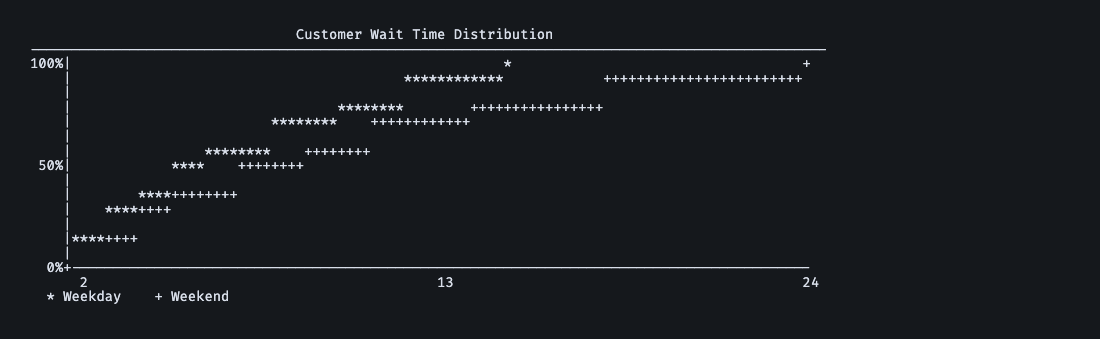
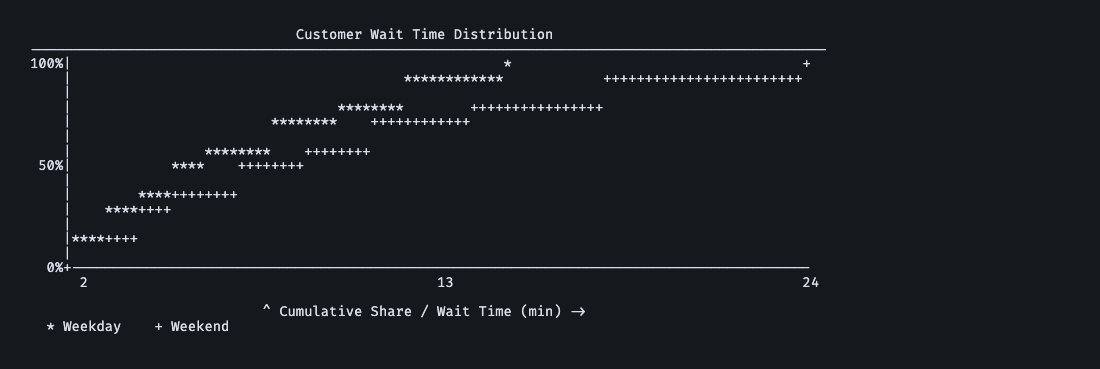
fix: tighten chart gallery labeling and markers

diff --git a/src/textcharts/scatter_plot.py b/src/textcharts/scatter_plot.py
@@ -8,14 +8,7 @@ from typing import TYPE_CHECKING
 
 logger = logging.getLogger(__name__)
 
-from textcharts.base import (
-    DEFAULT_PALETTE,
-    TRUNCATION_MARKER,
-    ASCIIChartBase,
-    ASCIIChartOptions,
-    ColorMode,
-    robust_p95,
-)
+from textcharts.base import DEFAULT_PALETTE, TRUNCATION_MARKER, ASCIIChartBase, ASCIIChartOptions, ColorMode, robust_p95
 
 if TYPE_CHECKING:
     from collections.abc import Sequence
@@ -54,9 +47,8 @@ class ASCIIScatterPlot(ASCIIChartBase):
     ```
     """
 
-    # Markers for different purposes
-    MARKER_NORMAL = "*"
-    MARKER_PARETO = "◆"
+    # Point markers follow the same rotating pattern used by CDF/Line charts.
+    MARKERS = ("*", "+", "o", "x", "^", "v", "#", "@")
     MARKER_FRONTIER = "─"
 
     def __init__(
@@ -159,6 +151,9 @@ class ASCIIScatterPlot(ASCIIChartBase):
             return max(0, min(plot_width - 1, gx)), max(0, min(plot_height - 1, gy))
 
         palette = list(DEFAULT_PALETTE)
+        point_styles = {
+            point.name: (self.MARKERS[i % len(self.MARKERS)], palette[i % len(palette)]) for i, point in enumerate(self.points)
+        }
 
         # Plot Pareto frontier line first (so points overlay it)
         if self.show_pareto and len(pareto_points) >= 2:
@@ -190,7 +185,7 @@ class ASCIIScatterPlot(ASCIIChartBase):
 
         for (gx, gy), pts in point_positions.items():
             # Use first point's properties for marker
-            marker = self.MARKER_PARETO if pts[0].is_pareto else self.MARKER_NORMAL
+            marker, _ = point_styles[pts[0].name]
             grid[gy][gx] = marker
 
         # Build output with y-axis
@@ -211,8 +206,10 @@ class ASCIIScatterPlot(ASCIIChartBase):
             if colors.color_mode != ColorMode.NONE:
                 colored_cells = []
                 for cell in row:
-                    if cell == self.MARKER_PARETO:
-                        colored_cells.append(colors.colorize(cell, fg_color="#1b9e77"))
+                    marker_match = next((style for style in point_styles.values() if style[0] == cell), None)
+                    if marker_match is not None:
+                        _, color = marker_match
+                        colored_cells.append(colors.colorize(cell, fg_color=color))
                     elif cell == self.MARKER_FRONTIER:
                         colored_cells.append(colors.colorize(cell, fg_color="#666666"))
                     else:
@@ -249,14 +246,13 @@ class ASCIIScatterPlot(ASCIIChartBase):
 
         # Axis labels
         lines.append("")
-        lines.append(self._render_compact_axis_labels(width))
+        lines.append(self._render_compact_axis_labels(self.y_label, self.x_label, width))
 
         # Legend with point names
         lines.append("")
         lines.append("Points:")
-        for i, point in enumerate(self.points):
-            marker = self.MARKER_PARETO if point.is_pareto else self.MARKER_NORMAL
-            color = "#1b9e77" if point.is_pareto else palette[i % len(palette)]
+        for point in self.points:
+            marker, color = point_styles[point.name]
             if colors.color_mode != ColorMode.NONE:
                 marker_colored = colors.colorize(marker, fg_color=color)
             else:
@@ -269,15 +265,6 @@ class ASCIIScatterPlot(ASCIIChartBase):
             lines.append(f"  {marker_colored} {point.name}: x={x_val}, y={y_val}{pareto_note}{truncated_note}")
 
         return "\n".join(lines)
-
-    def _render_compact_axis_labels(self, width: int) -> str:
-        """Render both axis labels on one compact line."""
-        colors = self.options.get_colors()
-        right_arrow = "\u2192" if self.options.use_unicode else "->"
-        up_arrow = "\u2191" if self.options.use_unicode else "^"
-        text = f"{up_arrow} {self.y_label} / {self.x_label} {right_arrow}"
-        text = text[:width] if len(text) > width else text
-        return colors.colorize(text.center(width), fg_color="#666666")
 
     def _compute_pareto(self) -> list[ScatterPoint]:
         """Compute Pareto frontier (higher y is better, lower x is better)."""

diff --git a/tests/test_gallery_renderer_clarity.py b/tests/test_gallery_renderer_clarity.py
@@ -5,12 +5,14 @@ import pytest
 import textcharts.base as base
 from textcharts import (
     ASCIIBarChart,
+    ASCIICDFChart,
     ASCIIChartOptions,
     ASCIIHeatmap,
     ASCIILineChart,
     ASCIIScatterPlot,
     ASCIISparklineTable,
     BarData,
+    CDFSeriesData,
     LinePoint,
     ScatterPoint,
     SparklineColumn,
@@ -44,7 +46,7 @@ def test_heatmap_uses_configured_x_axis_label():
     assert "Platform →" not in result
 
 
-def test_line_chart_renders_both_axis_labels():
+def test_line_chart_compacts_axis_labels_onto_one_line():
     chart = ASCIILineChart(
         points=[LinePoint(series="Organic", x=1, y=320.0), LinePoint(series="Organic", x=2, y=355.0)],
         x_label="Week",
@@ -54,8 +56,9 @@ def test_line_chart_renders_both_axis_labels():
 
     result = chart.render()
 
-    assert "↑ Signups" in result
-    assert "Week →" in result
+    assert "↑ Signups / Week →" in result
+    assert result.count("↑ Signups") == 1
+    assert result.count("Week →") == 1
 
 
 def test_scatter_plot_compacts_axis_labels_onto_one_line():
@@ -71,6 +74,41 @@ def test_scatter_plot_compacts_axis_labels_onto_one_line():
     assert "↑ Performance / Cost (USD) →" in result
     assert result.count("↑ Performance") == 1
     assert result.count("Cost (USD) →") == 1
+
+
+def test_cdf_chart_compacts_axis_labels_onto_one_line():
+    chart = ASCIICDFChart(
+        data=[
+            CDFSeriesData(name="Weekday", values=[2, 3, 4, 5]),
+            CDFSeriesData(name="Weekend", values=[3, 5, 7, 9]),
+        ],
+        x_label="Wait Time (min)",
+        y_label="Cumulative Share",
+        options=ASCIIChartOptions(width=96, use_color=False),
+    )
+
+    result = chart.render()
+
+    assert "↑ Cumulative Share / Wait Time (min) →" in result
+
+
+def test_scatter_plot_uses_distinct_markers_for_points():
+    chart = ASCIIScatterPlot(
+        points=[
+            ScatterPoint(name="Launch", x=8.0, y=410.0),
+            ScatterPoint(name="Retargeting", x=5.5, y=280.0),
+            ScatterPoint(name="Newsletter", x=2.0, y=220.0),
+        ],
+        x_label="Cost (USD)",
+        y_label="Conversions",
+        options=ASCIIChartOptions(width=96, use_color=False),
+    )
+
+    result = chart.render()
+
+    assert "* Launch" in result
+    assert "+ Retargeting" in result
+    assert "o Newsletter" in result
 
 
 def test_bar_chart_renders_legend_for_multi_bar_output():

diff --git a/src/textcharts/cdf_chart.py b/src/textcharts/cdf_chart.py
@@ -62,6 +62,8 @@ class ASCIICDFChart(ASCIIChartBase):
         self,
         data: Sequence[CDFSeriesData],
         title: str | None = None,
+        x_label: str = "Value",
+        y_label: str = "Cumulative Share",
         height: int = PLOT_HEIGHT,
         options: ASCIIChartOptions | None = None,
         metadata: dict | None = None,
@@ -69,6 +71,8 @@ class ASCIICDFChart(ASCIIChartBase):
         super().__init__(options, metadata=metadata)
         self.data = list(data)
         self.title = title or "Cumulative Distribution of Query Latency"
+        self.x_label = x_label
+        self.y_label = y_label
         self.height = max(5, height)
         self._x_capped = False
 
@@ -194,6 +198,8 @@ class ASCIICDFChart(ASCIIChartBase):
             x_label_parts[0] = x_label_parts[0][: start + 1] + label + x_label_parts[0][start + 1 + len(label) :]
 
         lines.append(f"{x_label_line}{x_label_parts[0].rstrip()}")
+        lines.append("")
+        lines.append(self._render_compact_axis_labels(self.y_label, self.x_label, width))
 
         # Legend
         legend_parts: list[str] = []
@@ -213,6 +219,8 @@ class ASCIICDFChart(ASCIIChartBase):
 def from_query_results(
     platform_queries: Sequence[tuple[str, Sequence[float]]],
     title: str | None = None,
+    x_label: str = "Execution Time (ms)",
+    y_label: str = "Cumulative Share",
     options: ASCIIChartOptions | None = None,
 ) -> ASCIICDFChart:
     """Create ASCIICDFChart from raw query timing data.
@@ -226,4 +234,4 @@ def from_query_results(
         Configured ASCIICDFChart instance.
     """
     data = [CDFSeriesData(name=name, values=list(values)) for name, values in platform_queries]
-    return ASCIICDFChart(data=data, title=title, options=options)
+    return ASCIICDFChart(data=data, title=title, x_label=x_label, y_label=y_label, options=options)

diff --git a/scripts/generate_doc_screenshots.py b/scripts/generate_doc_screenshots.py
@@ -253,7 +253,7 @@ def _line_chart(mode: str) -> str:
 def _scatter_plot(mode: str) -> str:
     points = [
         ScatterPoint(name="Spring Launch", x=8.0, y=410.0),
-        ScatterPoint(name="Retargeting", x=5.5, y=360.0),
+        ScatterPoint(name="Retargeting", x=5.5, y=180.0),
         ScatterPoint(name="Video Ads", x=11.0, y=470.0),
         ScatterPoint(name="Newsletter", x=2.0, y=220.0),
     ]
@@ -386,7 +386,13 @@ def _cdf_chart(mode: str) -> str:
         CDFSeriesData(name="Weekday", values=[2, 3, 4, 5, 6, 8, 10, 12, 15]),
         CDFSeriesData(name="Weekend", values=[3, 4, 5, 7, 9, 11, 14, 18, 24]),
     ]
-    chart = ASCIICDFChart(data=data, title="Customer Wait Time Distribution", options=_options(mode))
+    chart = ASCIICDFChart(
+        data=data,
+        title="Customer Wait Time Distribution",
+        x_label="Wait Time (min)",
+        y_label="Cumulative Share",
+        options=_options(mode),
+    )
     return _render_chart(chart, mode)
 
 

diff --git a/src/textcharts/base.py b/src/textcharts/base.py
@@ -557,6 +557,15 @@ class ASCIIChartBase(ABC):
         padded = text.center(width)
         return colors.colorize(padded, fg_color="#666666")
 
+    def _render_compact_axis_labels(self, y_label: str, x_label: str, width: int) -> str:
+        """Render both axis labels on one compact centered line."""
+        colors = self.options.get_colors()
+        right_arrow = "\u2192" if self.options.use_unicode else "->"
+        up_arrow = "\u2191" if self.options.use_unicode else "^"
+        text = f"{up_arrow} {y_label} / {x_label} {right_arrow}"
+        text = text[:width] if len(text) > width else text
+        return colors.colorize(text.center(width), fg_color="#666666")
+
     def _render_legend(self, items: Sequence[tuple[str, str]], colors: TerminalColors) -> list[str]:
         """Render a compact horizontal legend with colored markers.
 

diff --git a/src/textcharts/line_chart.py b/src/textcharts/line_chart.py
@@ -283,8 +283,7 @@ class ASCIILineChart(ASCIIChartBase):
 
         # Axis labels
         lines.append("")
-        lines.append(self._render_axis_label(self.y_label, width, axis="y"))
-        lines.append(self._render_axis_label(self.x_label, width, axis="x"))
+        lines.append(self._render_compact_axis_labels(self.y_label, self.x_label, width))
 
         # Legend
         if len(series_map) > 1 or self.options.show_legend:
